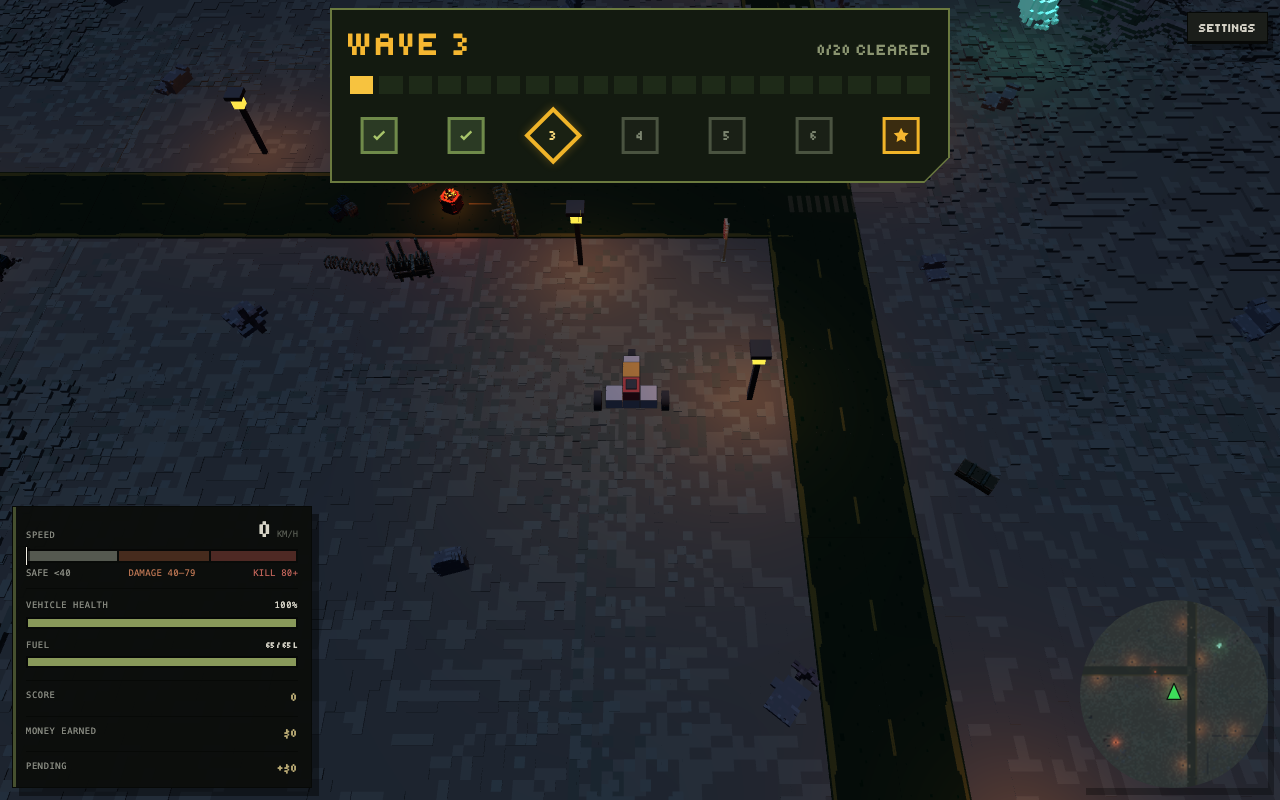
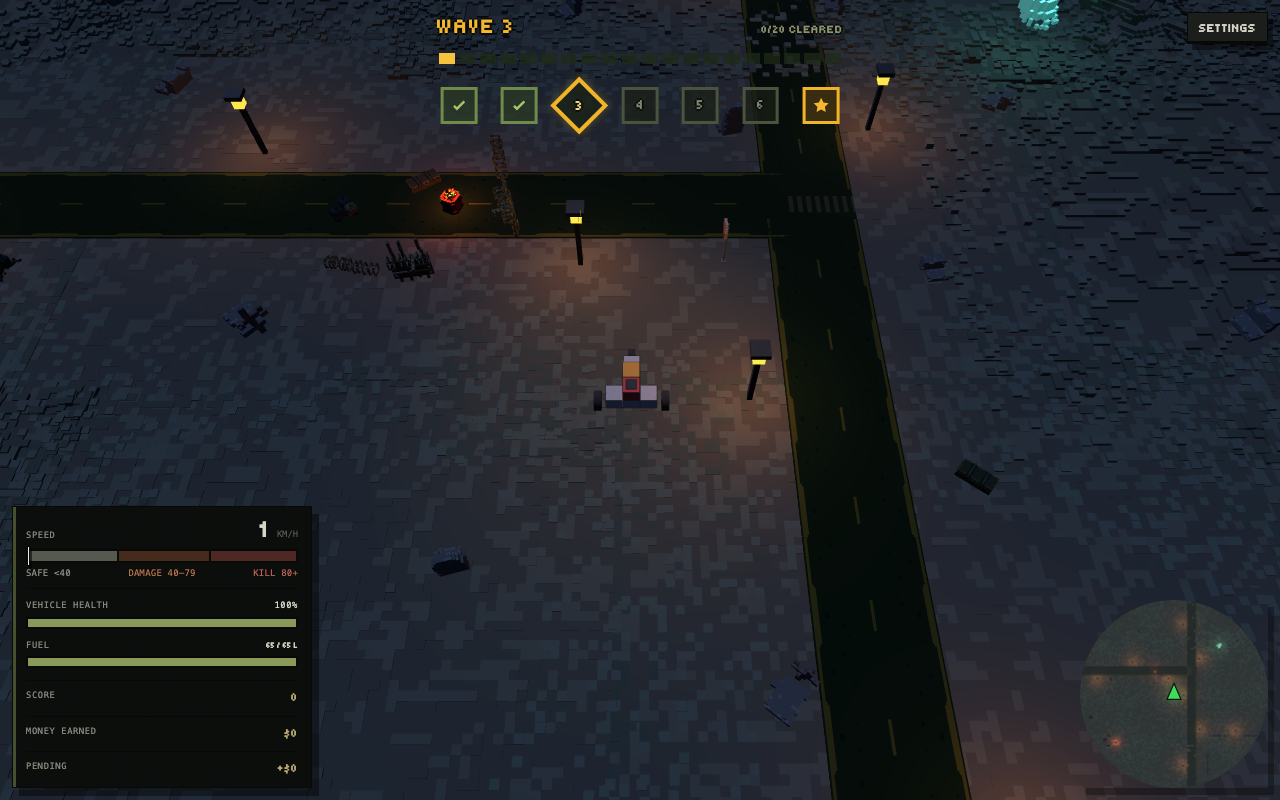
style(survival): shrink the wave timeline and drop its panel
The strip sat across the top of the play area as a solid slab. It is now
about a third smaller and fully transparent, so the road behind it stays
readable while driving.

The chamfered frame was two stacked clipped layers — an outer border
colour with an inset fill painted over it. A transparent fill cannot
punch through the outer layer, so making it see-through only tinted the
whole panel olive. The frame is gone entirely instead; the markers carry
their own borders and now sit on partially transparent fills.

Labels gained their own dark outline, since there is no longer a panel
behind them to guarantee contrast over bright ground.

Claude-Session: https://claude.ai/code/session_01GQUqkpde9JhvEeUbvWDTwM

diff --git a/zombie-motorworks/src/survival/WaveTimelineHud.css b/zombie-motorworks/src/survival/WaveTimelineHud.css
@@ -1,66 +1,40 @@
 .wave-timeline {
-  --wave-timeline-panel-fill: #131a10;
-  --wave-timeline-panel-border: #6b7a3f;
+  --wave-timeline-panel-fill: transparent;
+  --wave-timeline-panel-border: rgb(107 122 63 / 0.55);
   --wave-timeline-gold: #f5b731;
   --wave-timeline-summary: #8a9470;
   --wave-timeline-kill-cleared: #6f7f4a;
   --wave-timeline-kill-next: #f7c33f;
-  --wave-timeline-kill-remaining: #1e2a18;
+  --wave-timeline-kill-remaining: rgb(30 42 24 / 0.72);
   --wave-timeline-cleared-border: #6f8a4a;
-  --wave-timeline-cleared-fill: #2b3a24;
+  --wave-timeline-cleared-fill: rgb(43 58 36 / 0.72);
   --wave-timeline-cleared-glyph: #a8c46a;
   --wave-timeline-marker-gold: #f0b429;
-  --wave-timeline-current-fill: #1a2113;
+  --wave-timeline-current-fill: rgb(26 33 19 / 0.72);
   --wave-timeline-current-number: #f5d67a;
   --wave-timeline-future-border: #4a5340;
-  --wave-timeline-future-fill: #1a2016;
+  --wave-timeline-future-fill: rgb(26 32 22 / 0.72);
   --wave-timeline-future-number: #7c8570;
   --wave-timeline-milestone-fill: #3a2c10;
   --wave-timeline-boss-border: #b8393a;
   --wave-timeline-boss-fill: #3a1414;
   --wave-timeline-boss-glyph: #e04a45;
   --wave-timeline-current-glow: rgb(240 180 41 / 0.3);
-  --wave-timeline-node-size: 62px;
-  --wave-timeline-node-footprint: 100px;
-  --wave-timeline-number-size: 30px;
+  --wave-timeline-node-size: 42px;
+  --wave-timeline-node-footprint: 68px;
+  --wave-timeline-number-size: 20px;
   position: absolute;
   top: 8px;
   left: 50%;
   z-index: 16;
-  width: min(620px, calc(100vw - 16px));
+  width: min(430px, calc(100vw - 16px));
   min-width: 0;
-  padding: 22px 18px 26px;
-  background: var(--wave-timeline-panel-border);
-  clip-path: polygon(
-    0 0,
-    100% 0,
-    100% calc(100% - 26px),
-    calc(100% - 26px) 100%,
-    0 100%
-  );
+  padding: 10px 12px 12px;
+  background: transparent;
   color: var(--wave-timeline-gold);
   font-family: var(--ui-font-display);
   pointer-events: none;
   transform: translateX(-50%);
-}
-
-.wave-timeline::before {
-  position: absolute;
-  pointer-events: none;
-  content: '';
-}
-
-.wave-timeline::before {
-  inset: 2px;
-  z-index: 0;
-  background: var(--wave-timeline-panel-fill);
-  clip-path: polygon(
-    0 0,
-    100% 0,
-    100% calc(100% - 24px),
-    calc(100% - 24px) 100%,
-    0 100%
-  );
 }
 
 .wave-timeline,
@@ -78,14 +52,14 @@
   min-width: 0;
   align-items: baseline;
   justify-content: space-between;
-  gap: 16px;
+  gap: 10px;
 }
 
 .wave-timeline__wave-label {
   min-width: 0;
   overflow: hidden;
   color: var(--wave-timeline-gold);
-  font: 400 clamp(1.55rem, 6.4vw, 2.4rem) / 0.9 var(--ui-font-display);
+  font: 400 clamp(1.05rem, 4.2vw, 1.5rem) / 0.9 var(--ui-font-display);
   letter-spacing: 0.08em;
   text-overflow: ellipsis;
   text-transform: uppercase;
@@ -95,7 +69,7 @@
 .wave-timeline__cleared {
   flex: 0 0 auto;
   color: var(--wave-timeline-summary);
-  font: 400 clamp(0.72rem, 2.6vw, 1.15rem) / 1 var(--ui-font-display);
+  font: 400 clamp(0.6rem, 2vw, 0.82rem) / 1 var(--ui-font-display);
   font-variant-numeric: tabular-nums;
   letter-spacing: 0.06em;
   text-align: right;
@@ -112,8 +86,8 @@
 .wave-timeline__kill-bar {
   display: flex;
   width: 100%;
-  height: 18px;
-  gap: 6px;
+  height: 11px;
+  gap: 4px;
   margin-top: 16px;
   overflow: hidden;
 }
@@ -193,6 +167,16 @@
 .wave-timeline__number,
 .wave-timeline__glyph {
   grid-area: 1 / 1;
+}
+
+.wave-timeline__wave-label,
+.wave-timeline__summary,
+.wave-timeline__number {
+  text-shadow:
+    -2px 0 0 var(--ui-ink),
+    2px 0 0 var(--ui-ink),
+    0 -2px 0 var(--ui-ink),
+    0 2px 0 var(--ui-ink);
 }
 
 .wave-timeline__number {
